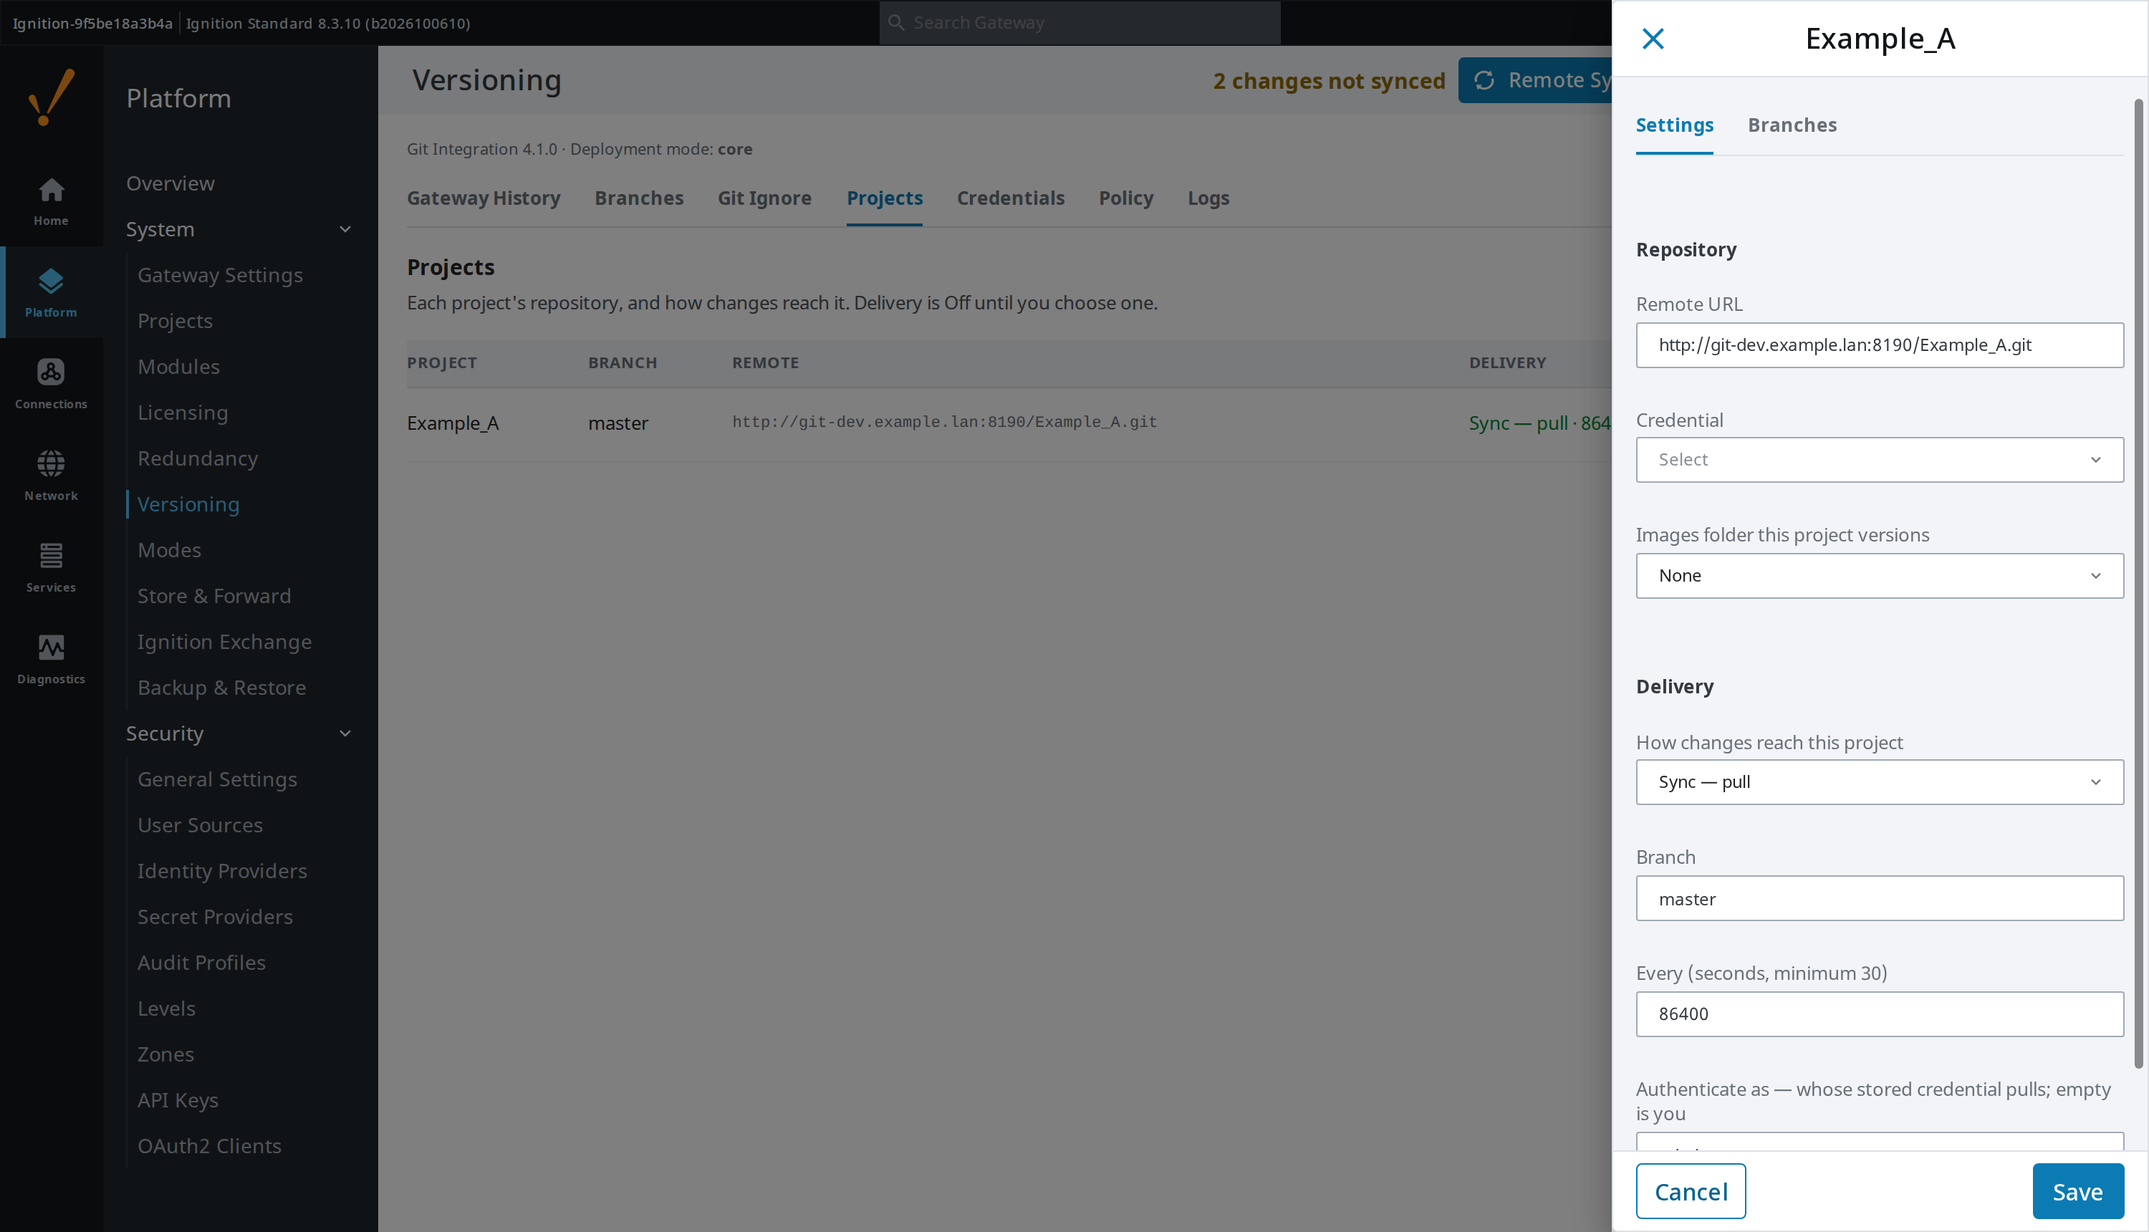
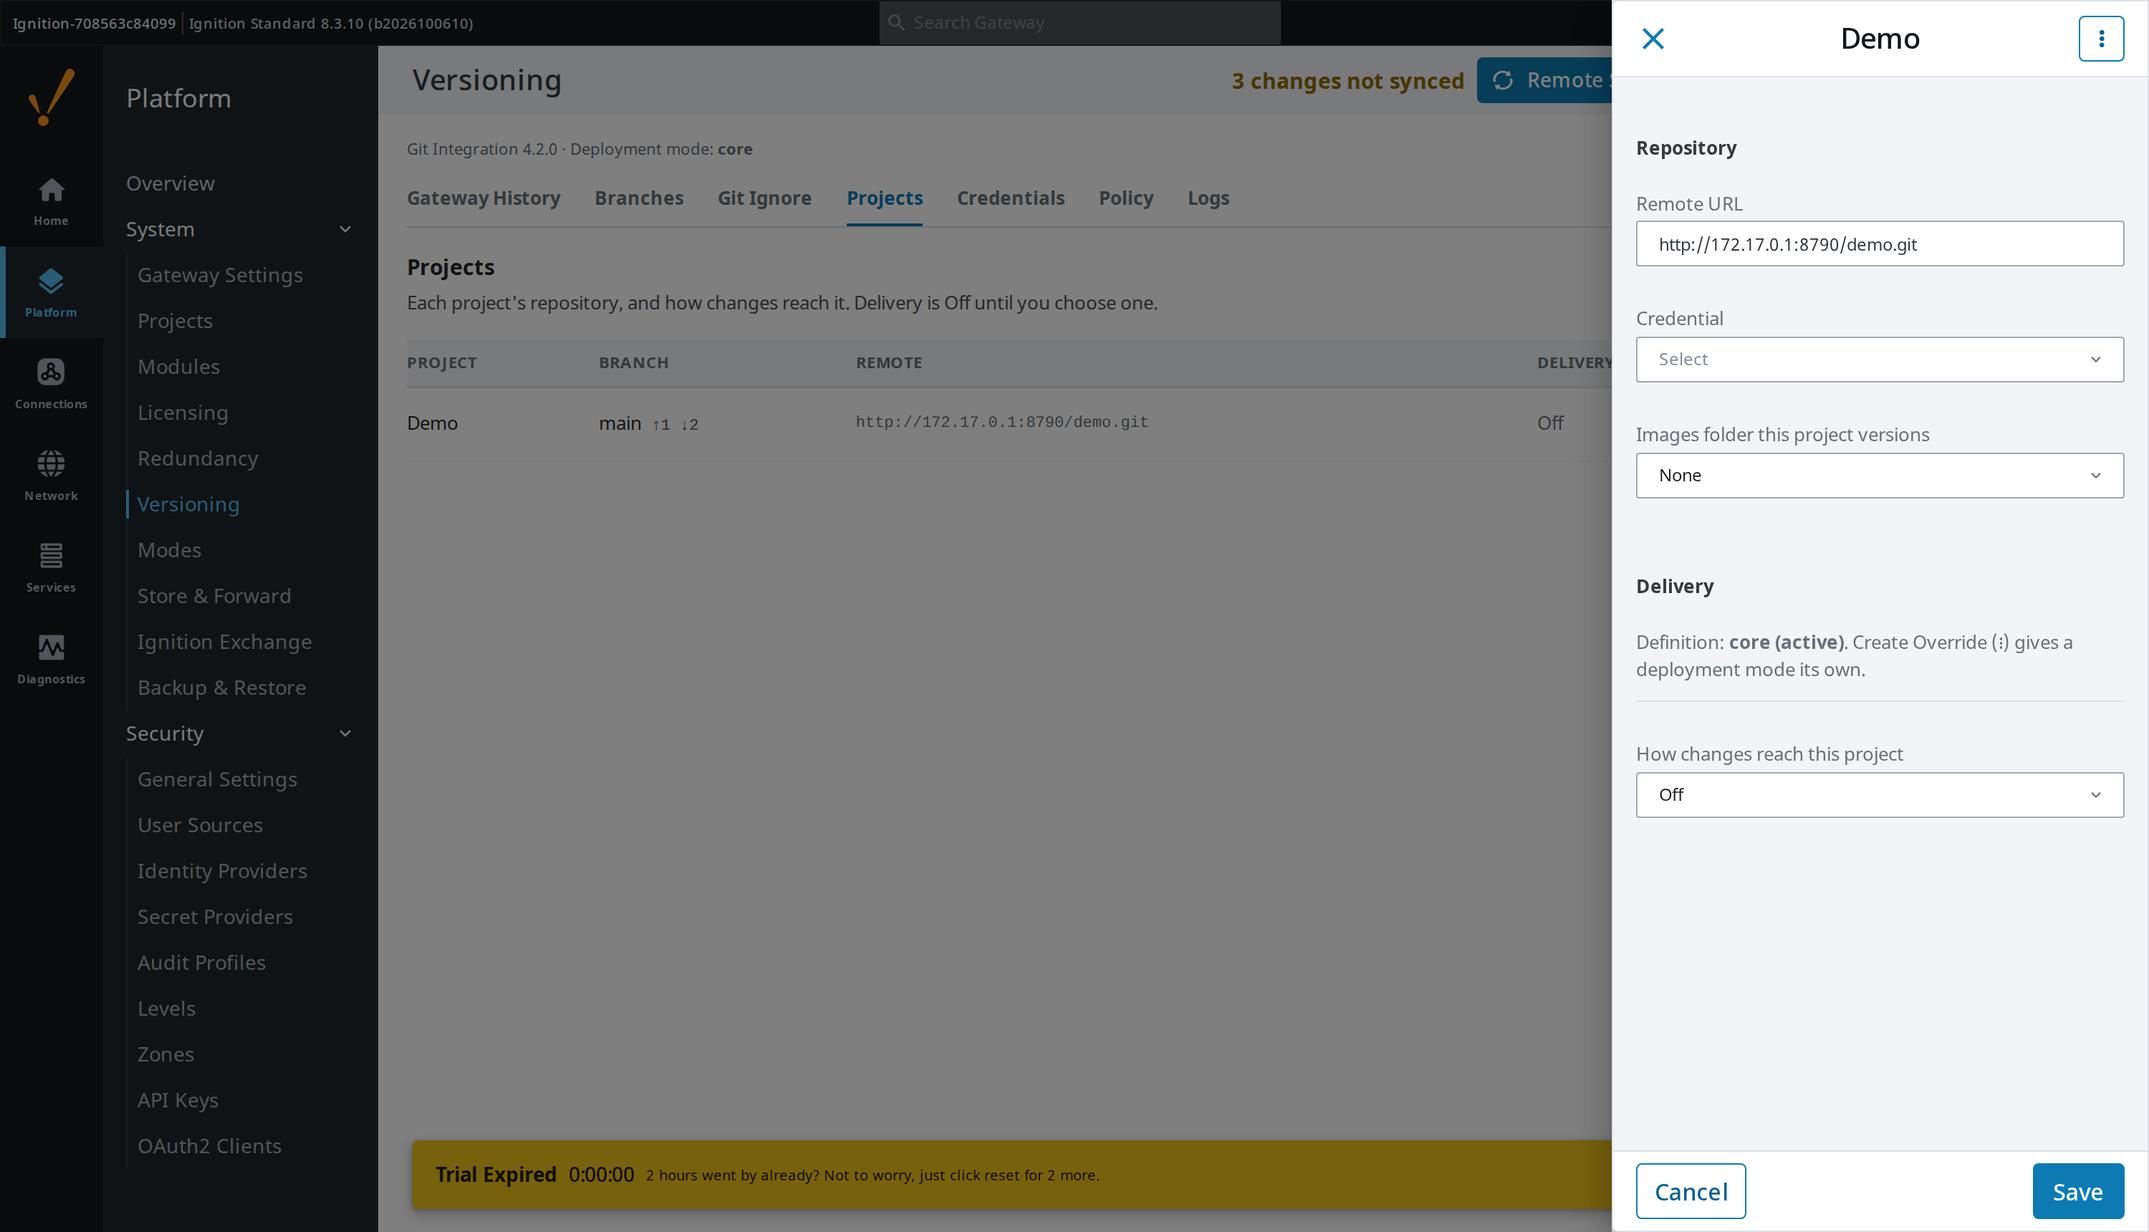
Docs and version 4.2.0: overrides from the UI, existing repositories, pull of a deleted branch
MODES.md step 3 is the UI path now; LAYOUT.md gains Using an existing repository.
Five screenshots recaptured on 4.2.0.

diff --git a/docs/INTERNALS.md b/docs/INTERNALS.md
@@ -19,11 +19,14 @@ are the two runner routes — see Delivery below.
 | Projects & credentials | `POST /project-init`, `/project-remote`, `/project-credential`, `/project-images`, `/project-snapshot-images`, `/credentials`, `/credential-remove`, `/credential-check` |
 | Delivery & logs | `GET /events`, `/runner` |
 | Delivery & logs | `POST /delivery`, `/sync-now`, `/events-clear`, `/runner`, `/runner-sync`, `/runner-release` |
-| Modes & policy (4.1.0) | `POST /policy`, `/mode-reset` (`type` policy, remote, runner, sync + `project`, credential + `id`/`credType`); `GET /status` carries `policy` (mode, from, fields, `refused` texts) |
+| Modes & policy (4.1.0) | `POST /policy`, `/mode-override` (Create Override: `mode`, `from`), `/mode-reset` (Remove Override: `mode`, blank = active); each takes `type` policy, remote, runner, sync + `project`, credential + `id`/`credType`. `GET /definition` (same keys + `collection`) answers one collection's definition in the shape of the record's own GET, plus `defined`. `GET /status` carries `policy` and `modes` |
+| Branch names (4.2.0) | `POST /branch-rename-master` (`project` or `repo:"config"`); `GET /remote` and `/projects` carry `renameMaster` when it applies |
 
 `POST /remote`, `/credentials`, `/project-init`, `/delivery`, `/runner` and `/policy` take
-`?saveTo=core|<active mode>` in the query string (the handlers read the body themselves): every
-record they save lands in that collection. Left out, a record stays where it is defined. A
+`?saveTo=core|<any mode>` in the query string (the handlers read the body themselves): every
+record they save lands in that collection, and the record they load is that collection's
+definition (`ModeStore.readingFrom`), so a blank secret keeps that mode's. Left out, a record
+stays where it is defined. A
 `PolicyGate.Refused` answers 403.
 
 `POST /runner-sync` and `/runner-release` are the routes with no permission check and no CSRF
@@ -70,6 +73,7 @@ deletes the resource types left over from removed features, both idempotent.
 | `GitProjectManager` / `GitTagManager` / `GitThemeManager` / `GitImageManager` | Per-project resource import, and gateway-resource snapshot (tags/themes/images) into the project tree. |
 | `RepoLocator` / `ProjectScope` / `LayoutSwitch` (4.0.0) | The repository layout, unit tested with no gateway context. `RepoLocator` maps a project to `(root, prefix)`: Separate `(projects/<name>, "")`, Combined `(dataDir, "projects/<name>/")`; the layout lives in the data-dir repo's `.git/config` (`gitmodule.layout.mode`), absent = Separate. Every project RPC goes through `GitManager.repoFor`. `ProjectScope` is what changes meaning under a prefix: status limited by pathspec and stripped (a path outside the project comes back with a leading `/`, which `toRepoPath` maps back — conflicts use it), commit with `--only` (amend refused if HEAD touched anything outside), history by path, and a revert refused when the commit changed anything outside the project, undone for the project's paths only on conflict. A project folder with its own `.git` in Combined is refused by name, never hidden. `LayoutSwitch` moves between layouts (see README); in Combined, project and config writes share `DataDirGitManager.lock()`. Push (page and Designer) uses `ProjectScope.pushTarget`: the checked-out branch's upstream, else the configured branch for the home branch (the configured one, or the only local branch), else its own name, recorded as upstream after the first push. A Designer pull in Combined commits config's pending changes, then refuses while it would change uncommitted files outside the project. Sync — replace keeps an untracked `projects/<name>/` (a `warning` on the Logs tab). |
 | `BranchGraph` / `BranchSwitch` (4.0.0) | Behind the Branches views, no gateway context so both are unit tested. `BranchGraph` walks every local and remote-tracking ref and tag (topological, limit 200) and assigns lanes on the server: a column per commit and, per parent edge, the column its line runs down (reserved when the child is placed, freed when the parent is reached), so the page only draws. Per local branch it adds `BranchHygiene.Info` plus behind-upstream. With a path prefix (Combined project view) commits are kept but flagged `touches=false` when they leave the prefix, judged against the first parent. `BranchSwitch` checks out a local branch, or creates a tracking one from `origin/x`; it never stashes. It refuses with the file list when the tree has uncommitted work (Combined and the config repository: everything except `config/`, which is committed first), and refuses when an enabled sync or delivery follows a different branch. The route resolves the repository through `GitManager.repoFor`, then loads the result like a pull does (project import and scan, or config scan plus all projects) and logs a `checkout` event. `GET /projects` also carries each project's `ahead`/`behind`, asked once per repository. |
+| `PullGuard` / `MasterRename` / `LayoutCheck` (4.2.0) | Pure, unit tested. `PullGuard`: after a pruning fetch, the current branch's gone upstream (`UPSTREAM_GONE:` text the Designer turns into Switch to main and pull), the branch to go back to (`<remote>/HEAD`, configured, main, master), and plain sentences for JGit failures (original after `\n\nDetails: `). `MasterRename`: new repositories start on the configured branch or main; a lone `master` behind a remote `main` is renamed on request. `LayoutCheck`: before the gateway repository pushes or pulls, a branch with no `config/` at the top, or unrelated history, is refused. |
 | `PolicyGate` (4.1.0) | Every policy question: `check(Action)`, `checkDelivery`, `checkHost`, the refusal texts, `credentialMismatch` (credential host vs URL host), `refusals()` for the Designer's `getPolicyRefusals` RPC and the `Gateway-Mode` trailer. Pure decisions, unit tested. `GitManager.setAuthentication*` call `checkHost` and the host match before attaching any credential, so every remote op is covered. |
 | `OriginSync` (4.1.0) | Sets the gateway repository's `origin` from the effective config remote record (URL, no push URL, upstreams moved when the branch changed; applied branch in `gitmodule.origin.branch`). `DataDirGitManager.authOrigin` runs it before every config push and fetch, and `setAuthentication` before a Combined `origin` op. |
 | `IgnoreRules` | The `.gitignore` template and the Git Ignore tab's rule matching (`decide`, `matchRule`, `isOwnLine`), pure so it is unit tested. `versionPolicy` rewrites the 3.10.0 records line into the 4.1.0 pair; `DataDirGitManager.versionPolicyOnce` applies it once at startup (marker `.git-module-policy-versioned`). |

diff --git a/docs/MODES.md b/docs/MODES.md
@@ -50,15 +50,16 @@ pushing is turned off by the gateway's Git policy.*
 
 ## Per-mode remotes and credentials
 
-When a mode is active, the drawers for the config remote, credentials, a
-project's delivery and runner access have **Save to: core | Prod**. Core is the
-value every mode uses unless it has its own; Prod writes an override that only
-this mode uses. Each drawer shows where the value comes from now, and **Reset
-to core** deletes the mode's override. A record that exists only in the mode
-(a credential added there) is deleted by Reset, as core has nothing to fall
-back to.
+The drawers for the policy, the config remote, a credential, a project's delivery and runner
+access work like the platform's own resource pages. The kebab (⋮) in the drawer's header has,
+under **RESOURCE DEFINITIONS**, **Create Override** — pick any mode created on this gateway, not
+only the active one — and **Remove Override** for the definition being edited. Once a record has
+more than one definition, **Select Definition to Configure** picks which one the drawer shows and
+Save writes; the one this gateway runs on is marked "(active)". Lists say which modes override each
+record ("Overridden in Prod"). A record that exists only in a mode (a credential added there) is
+listed too, marked "Only in Prod"; a new record's drawer asks which collection to create it in.
 
-![The config remote's drawer: Save to core or Prod, where the value comes from, Reset to core](images/versioning-save-to.png)
+![The policy drawer on Prod's definition, with the kebab's Create Override and Remove Override](images/versioning-save-to.png)
 
 The same records can also be overridden from **Platform › Modes** or the
 gateway's `resources/copy` API; the module reads whichever value the active
@@ -94,21 +95,10 @@ the data directory).
    `ignition.conf` (above).
 2. On Dev (mode `Dev`): open **Policy**, leave core as it is. Configure the
    remote with a token that can push, **Save to: core**.
-3. Still on Dev, write the Prod override of the policy. The page's Save to only
-   offers core and the active mode, so use the gateway API: copy the policy into
-   Prod, then set its values — Push off, Commit from the Designer off, branches
-   and layout off, deliveries Sync — replace only, allowed hosts `github.com`.
-
-   ```text
-   POST /data/api/v1/resources/copy?resourceType=com.operametrix.ignition.git/git-policy
-        &fromName=policy&toName=policy&fromCollection=core&toCollection=Prod&signature=<sig>
-   PUT  /data/api/v1/resources/com.operametrix.ignition.git/git-policy
-        [{"name":"policy","collection":"Prod","signature":"<new sig>","config":{...}}]
-   ```
-
-   (`<sig>` from `GET /data/api/v1/resources/find/com.operametrix.ignition.git/git-policy/policy`.)
-   The config repository commits it; push, and the override is in the branch.
-   Or restart Dev into Prod once and use **Save to: Prod** on the Policy tab.
+3. Still on Dev, open **Policy › Edit policy**, ⋮ › **Create Override** › Prod, and set Prod's
+   values: Push off, Commit from the Designer off, branches and layout off, deliveries Sync —
+   replace only, allowed hosts `github.com`. Save. The config repository commits it; push, and the
+   override is in the branch. (The gateway's `resources/copy` API does the same, for scripting.)
 4. On Prod (mode `Prod`): Sync — replace from that branch brings the policy in.
    Configure the remote with a read-only token, **Save to: Prod**, ideally as a
    Secret Provider reference.

diff --git a/docs/LAYOUT.md b/docs/LAYOUT.md
@@ -15,9 +15,10 @@ either way at any time.
 
 **Branches.** One gateway has one checked-out branch per project (Combined: one for
 everything), shared by everyone editing it, so the gateway page shows it. The
-Projects tab has a Branch column with ↑/↓ against the upstream, and each
-project's drawer has a **Branches** tab; the Versioning page has a **Branches**
-tab for the gateway config. Each draws the commit graph beside the branch list,
+Projects tab has a Branch column with ↑/↓ against the upstream and a
+**Branches** button on each versioned project's row; the Versioning page has a
+**Branches** tab for the gateway config. With no remote set, the view says so and
+links to where it is set. Each draws the commit graph beside the branch list,
 with gone, merged, ahead and behind marked. In Combined the project view shows
 the gateway repository and dims commits that leave that project. **Switch to
 this branch** changes it from the page; it is refused, with the files, while
@@ -52,6 +53,32 @@ Per-project remotes, credentials and deliveries are kept while Combined and
 work again after switching back; the gateway's Pull and Runner deliveries stop
 while Separate.
 
+## Using an existing repository
+
+The module does not remap folders: the gateway repository has `config/` at the
+top and, in Combined, `projects/<name>/`. A repository laid out another way —
+say `gateway/config/` and `project/` — is refused before anything is pushed to
+it or pulled from it, as is a branch whose history is unrelated to the
+gateway's. Restructure it once, on your side:
+
+```text
+git mv gateway/config config
+git mv project projects/<ProjectName>
+git commit -m "Gateway repository layout"
+git push
+```
+
+Then bring the two histories together once: set the gateway's remote branch to a
+new name (say `gateway-import`) and Remote Sync, which pushes a branch the remote
+does not have yet; in a clone, merge it into the restructured branch with
+`git merge --allow-unrelated-histories origin/gateway-import`, push, and set the
+gateway's branch back to that one. From then on the histories are related.
+
+New repositories start on the configured remote branch (default `main`). One
+made before 4.2.0 may sit on `master` while the remote's branch is `main`; the
+Versioning header (or the project's Branch column) then offers **Rename local
+master to main** — same commits, upstream kept.
+
 ## Designer branch list
 
 The **Branch** button opens local and remote lists. A fetch drops remote
@@ -61,5 +88,11 @@ branch's upstream, else HEAD) or `↑3` (three commits on no remote). Delete ref
 the checked-out branch and the branch a scheduled sync follows. A branch with
 unmerged or unpushed commits asks again, with the commit count, before **Delete
 anyway**. **Clean up…** fetches, then offers every gone or merged branch, ticked.
+
+**Pull** fetches with prune first. If the checked-out branch's remote branch was
+deleted — usually because it was merged — it says so and offers **Switch to main
+and pull** (the remote's default branch, else the configured one, else main or
+master), then offers to delete the local branch if it is merged, or says how many
+commits it would lose. The sync timer and the runner only log a warning.
 
 ![Branch list with gone and merged marks, and Clean up](images/designer-branch-cleanup.png)

diff --git a/CHANGELOG.md b/CHANGELOG.md
@@ -3,6 +3,46 @@
 Gaskony builds of the OperaMetrix Git module. Versions up to 2.1.0 are
 upstream's; everything below is this fork.
 
+## 4.2.0 (unreleased)
+
+### Changed
+- **Overrides work like the platform's own resource pages.** Every overridable drawer (policy,
+  config remote, credentials, a project's delivery, runner access) has the platform's kebab in its
+  header: **Create Override** into any deployment mode created on the gateway, not only the active
+  one, and **Remove Override**. Once a record has more than one definition, **Select Definition to
+  Configure** picks which one the drawer edits and Save writes; the definition in use is marked
+  "(active)". Lists say which modes override each record ("Overridden in Prod"), and a credential
+  that only a mode has is listed too. Gateway: `POST /mode-override`, `GET /definition`,
+  `/mode-reset` takes any mode, and `?saveTo=` any mode. The REST `resources/copy` path still works.
+- **Projects: a Branches button on each versioned project's row** opens its branch graph
+  directly. The Branches tab inside the Edit drawer is gone, so there is one way in.
+- New repositories (the gateway repository, a project's local repository, the Combined →
+  Separate split) start on the configured remote branch, else `main`, never JGit's `master`.
+- Repository layout card: the restore-history option is the platform checkbox on its own row.
+
+### Added
+- **Rename local master to main**: a repository from before 4.2.0 whose one local branch is
+  `master`, behind a remote whose branch is `main`, offers the rename (Versioning header for the
+  gateway repository, the Projects Branch column for a project). Same commits, upstream kept.
+- Branches with no remote say so, with a button to where the remote is set.
+- **Existing repositories laid out another way are refused, not merged.** Before the gateway
+  repository pushes or pulls (Remote Sync, Update from remote, the config follow, a Combined
+  Designer push or pull), a branch with no `config/` at the top or with history unrelated to this
+  gateway's is refused with the restructure steps; see docs/LAYOUT.md, "Using an existing
+  repository". Nothing is pushed over it.
+
+### Fixed
+- **Pulling a branch whose remote branch was deleted** (merged on GitHub, then deleted) showed
+  JGit's `RefNotAdvertisedException`. The Designer's pull now fetches with prune first and says
+  "feature-1's branch on origin was deleted — usually because it was merged", offers **Switch to
+  main and pull** (the remote's default branch, else the configured one, else main/master), and
+  afterwards offers to delete the local branch when it is merged, or says how many commits it
+  would lose. The sync timer, the runner and the gateway repository's follow log a plain warning
+  and stay on their branch.
+- Other raw JGit failures on pull, push and fetch read as plain sentences (credential refused,
+  repository not found, host unreachable, …); the original is kept under Details in the Designer
+  and in the browser console on the page.
+
 ## [4.1.0] - 2026-11-10
 
 ### Added

diff --git a/README.md b/README.md
@@ -40,11 +40,11 @@ everything excluded, and Expand/Collapse.
 
 The **Projects** tab lists every project on the gateway, unversioned ones
 included, and how changes reach each one. **Edit** opens a drawer with the
-project's repository, delivery and branches.
+project's repository and delivery; **Branches** opens its commit graph.
 
 ![The Projects tab: each project's repository, delivery and state](docs/images/versioning-projects.png)
 
-![A project's drawer: Settings and Branches tabs](docs/images/versioning-project-drawer.png)
+![A project's drawer: repository and delivery](docs/images/versioning-project-drawer.png)
 
 **Credentials** shows, for each repository credential, when its token expires,
 what it is allowed to touch, and which projects it can read or push. The host is

diff --git a/CLAUDE.md b/CLAUDE.md
@@ -107,8 +107,8 @@ No Vision client scope.
   (`ProjectScope`, `Repo.inProject`/`toProjectPath`); writers hold
   `DataDirGitManager.lock()`. Combined commits use `--only`, never for an
   `rm --cached` (it re-adds from disk).
-- **Modes (`docs/MODES.md`):** records save via `ModeStore.save` (`?saveTo=`);
-  credentials only via `GitManager.setAuthentication*` (policy and host checks);
+- **Modes (`docs/MODES.md`):** records go through `ModeStore` (`?saveTo=` any mode);
+  credentials only via `GitManager.setAuthentication*` (policy, host checks);
   config remote ops use `authOrigin`, so `origin` follows the mode's record.
 - **Image snapshot walks the store tree** (`getImages` lists one level and
   returns folders as entries with no bytes) **and import merges, never
